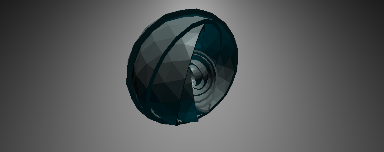
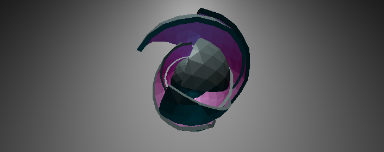
chopped shpere hulls inot quarters. added red point light in center of sphere

Changed region(s): [[0.3125, 0.0526, 0.6562, 0.8684]]

diff --git a/src/scripts/sketch.js b/src/scripts/sketch.js
@@ -18,7 +18,8 @@
 					boxBSP2,
 					result,
 					directionalLight = new THREE.DirectionalLight( 0x005566 ),
-					keyLight = new THREE.SpotLight(0xffffff);
+					keyLight = new THREE.SpotLight(0xffffff),
+					pointLight = new THREE.PointLight( 0xff0099, 1.0, 3 );
 				
 
 				scene.add(keyLight);
@@ -37,6 +38,8 @@
 				scene.add(directionalLight);
 				directionalLight.position.set( 0, -1, 0 );
 
+				scene.add( pointLight );
+
 				geometry = new THREE.PlaneBufferGeometry( 30, 10, 1 );
 				material = new THREE.MeshPhongMaterial( { color: 0xffffff } );
 				mesh = new THREE.Mesh( geometry, material );
@@ -53,19 +56,28 @@
 				mesh.position.set(0, 0, -1);
 				boxBSP = new ThreeBSP( mesh );
 
+				geometry = new THREE.BoxGeometry( 4, 2, 4);
+				mesh = new THREE.Mesh( geometry );
+				mesh.position.set(0, -1, 0);
+				boxBSP2 = new ThreeBSP( mesh );
+
 				geometry = new THREE.IcosahedronGeometry( 1.4 , 2);
 				mesh = new THREE.Mesh( geometry);
 				sphereBSP2 = new ThreeBSP( mesh );
 
 				result = sphereBSP
 							.subtract( boxBSP )
+							.subtract( boxBSP2 )
 							.subtract( sphereBSP2 )
 							.toMesh( new THREE.MeshPhongMaterial({color: 0x667777, shininess: 40}) );
 
-				for(var i = 2; i < 12; i++){
+				for(var i = 2; i < 14; i++){
 					var current = result.clone();
-					current.scale.multiplyScalar(i/12);
-					current.rotation.z = ( Math.PI * 2 ) * ( i / 10 );
+					current.scale.multiplyScalar(i/14);
+					current.rotation.x =  Math.random() * ( Math.PI * 2 );
+					current.rotation.y =  Math.random() * ( Math.PI * 2 );
+					current.userData.xVelocity = Math.random() * 0.04 - 0.02;
+					current.userData.yVelocity = Math.random() * 0.04 - 0.02;
 					scene.add(current);
 					shells.push(current);
 				}
@@ -74,16 +86,15 @@
 			},
 			
 			framestart = function(timestamp){
-				for(var i = 0; i < 10; i++){
-					var current = shells[i];
-					current.rotation.x = ( 5 * ( Math.sin( timestamp  * 0.001 ) ) * (10-i)/10) ;
-					current.rotation.y = Math.PI + ( 5 * ( Math.sin( timestamp * 0.001 ) * (10-i)/10) );
-					//current.rotation.z += 0.01;
-				}
+				
 			},
 
 			update = function(timestep){
 				//controls.update();
+				shells.forEach(function(shell){
+					shell.rotation.x += shell.userData.xVelocity;
+					shell.rotation.z += shell.userData.yVelocity;
+				});
 			},
 			
 			draw = function(interpolation){
